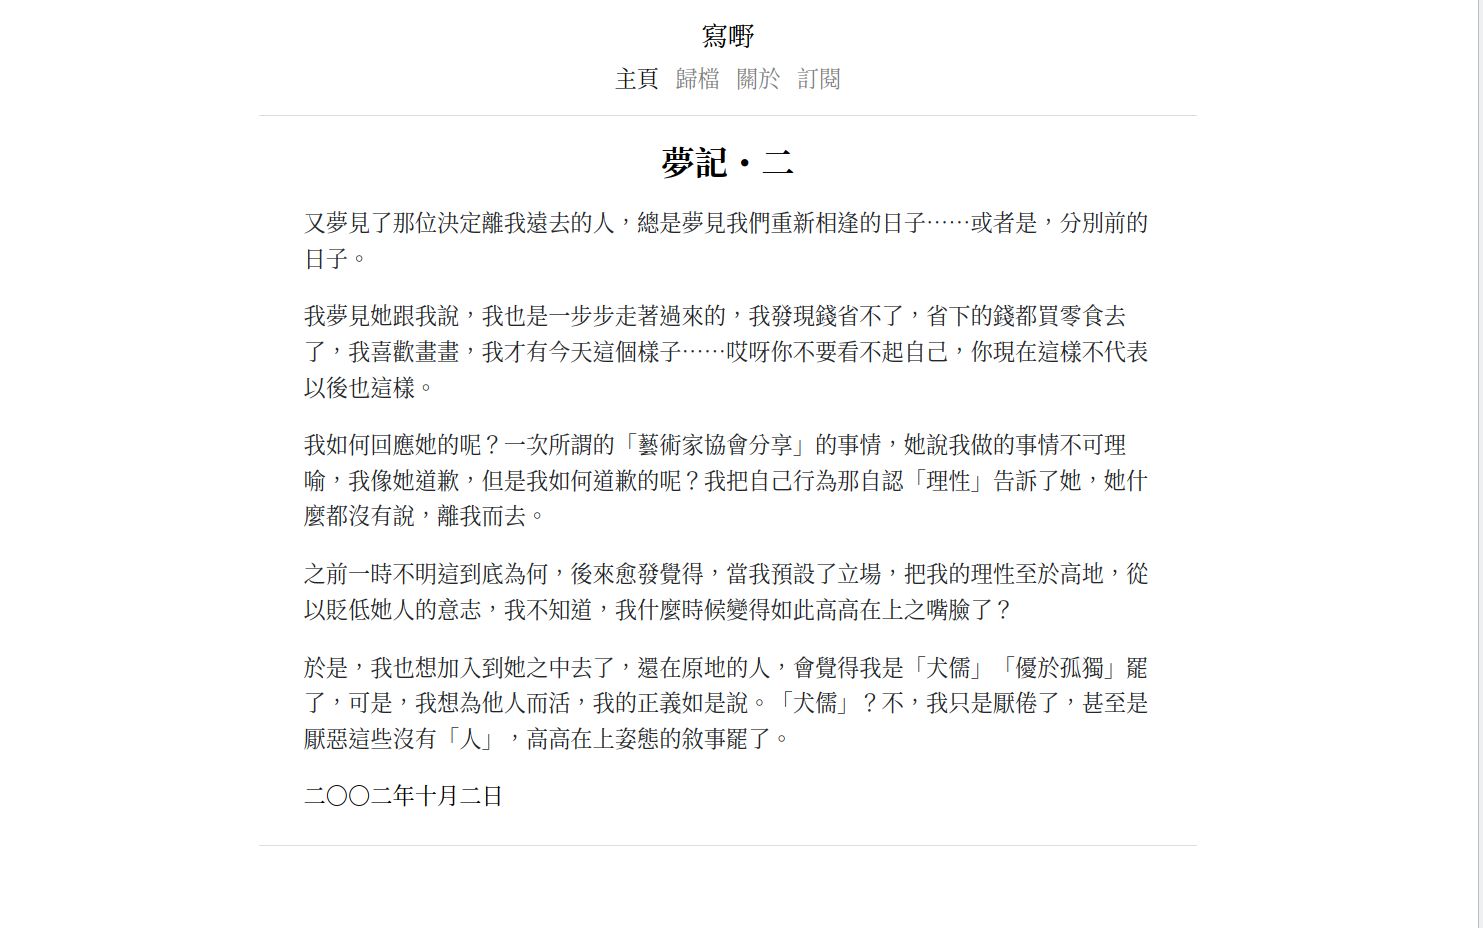
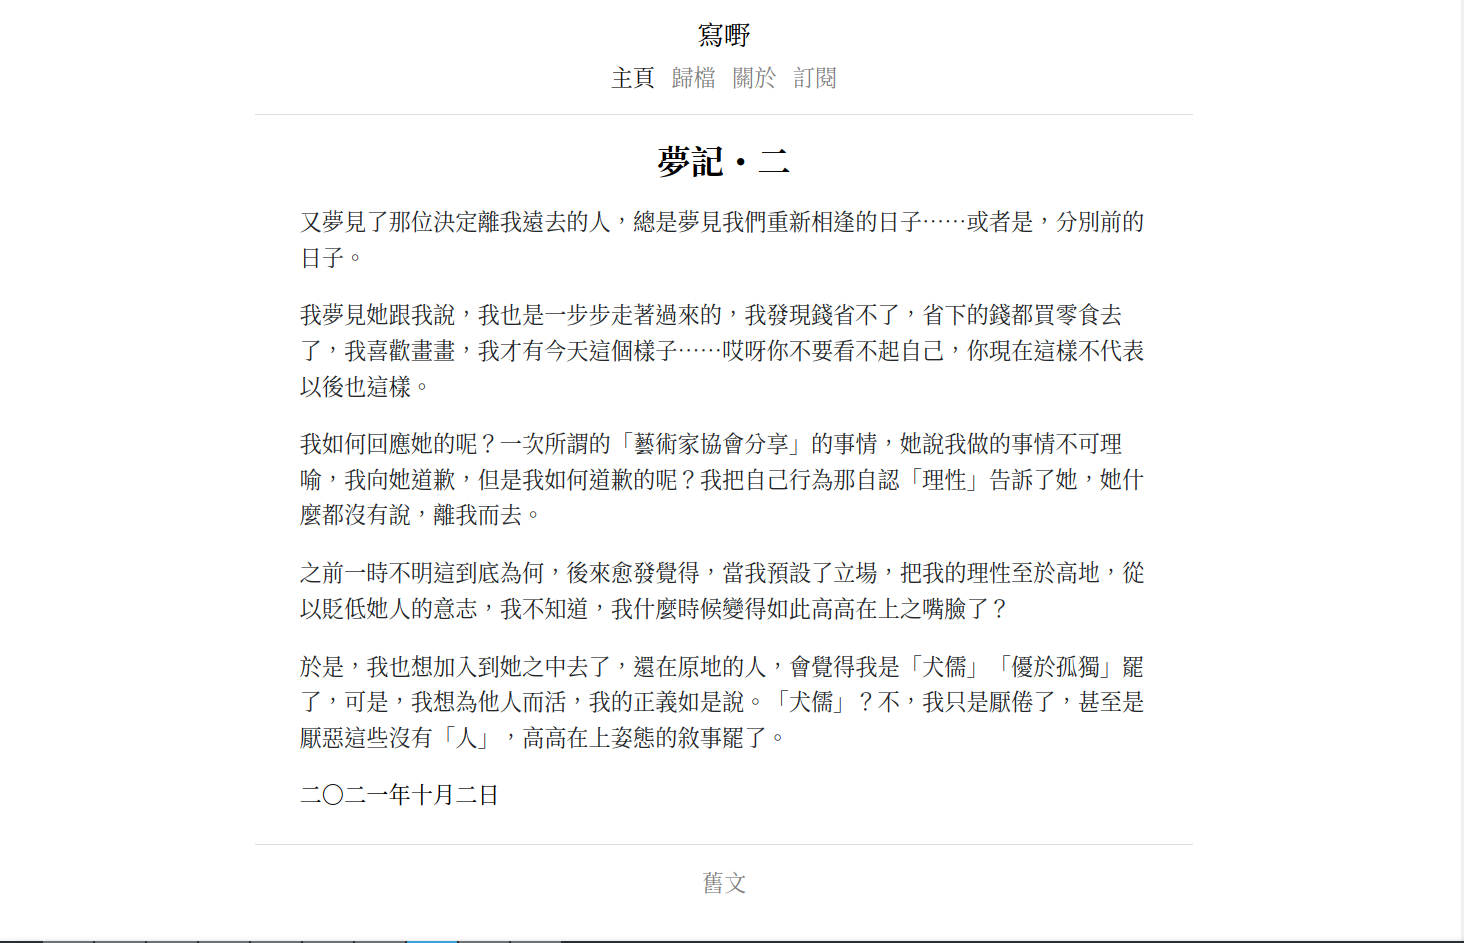
screenshot & temmplates/navbar: fix some typo

diff --git a/templates/navbar.html b/templates/navbar.html
@@ -4,7 +4,7 @@
         {% for item in data %}
         <li class="menu-item">
             {% set url_inner = item['url'] | replace(from="$BASE_URL", to="") %}
-            {% set url = url_1 ~ '/'%}
+            {% set url = url_inner ~ '/'%}
             {% set path = page.path|default(value = section.path) %}
             {% if url == path or url_inner == path %}
             <a href="{{ item['url'] | replace(from="$BASE_URL", to=config.base_url) }}" class="current-menu-item-link">{{ trans(key=item['name']) }}</a>

diff --git a/content/test.md b/content/test.md
@@ -1,13 +1,13 @@
 +++
 title = "夢記・二"
-date = 2002-10-02T15:00:00Z
+date = 2021-10-02T15:00:00Z
 +++
 
 又夢見了那位決定離我遠去的人，總是夢見我們重新相逢的日子⋯⋯或者是，分別前的日子。
 
 我夢見她跟我說，我也是一步步走著過來的，我發現錢省不了，省下的錢都買零食去了，我喜歡畫畫，我才有今天這個樣子⋯⋯哎呀你不要看不起自己，你現在這樣不代表以後也這樣。
 
-我如何回應她的呢？一次所謂的「藝術家協會分享」的事情，她說我做的事情不可理喻，我像她道歉，但是我如何道歉的呢？我把自己行為那自認「理性」告訴了她，她什麼都沒有說，離我而去。
+我如何回應她的呢？一次所謂的「藝術家協會分享」的事情，她說我做的事情不可理喻，我向她道歉，但是我如何道歉的呢？我把自己行為那自認「理性」告訴了她，她什麼都沒有說，離我而去。
 
 之前一時不明這到底為何，後來愈發覺得，當我預設了立場，把我的理性至於高地，從以貶低她人的意志，我不知道，我什麼時候變得如此高高在上之嘴臉了？
 
